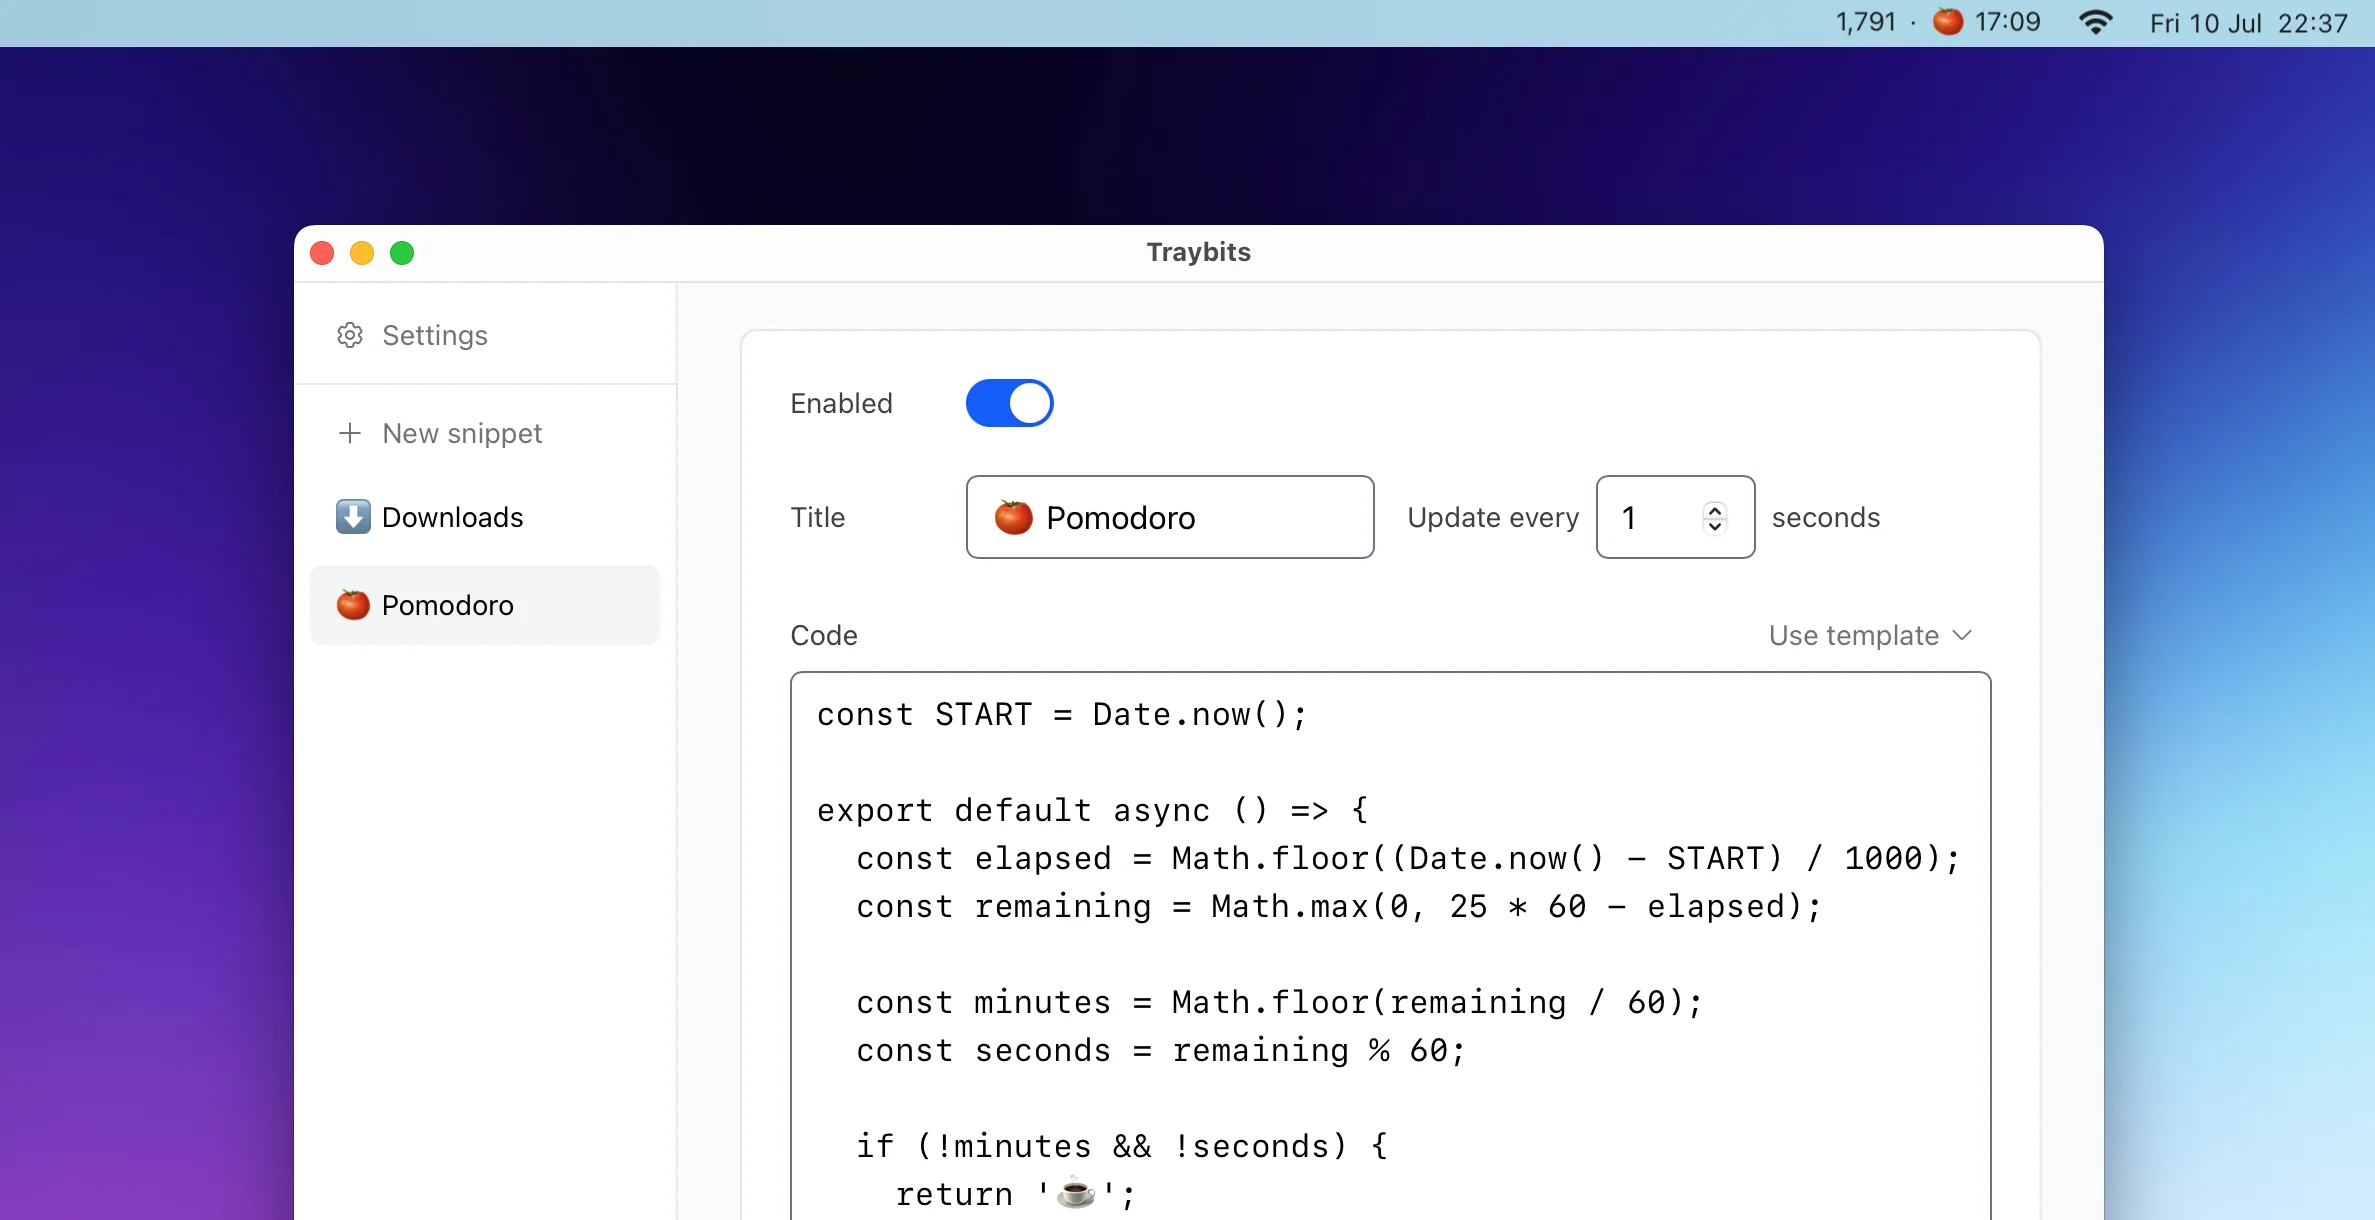
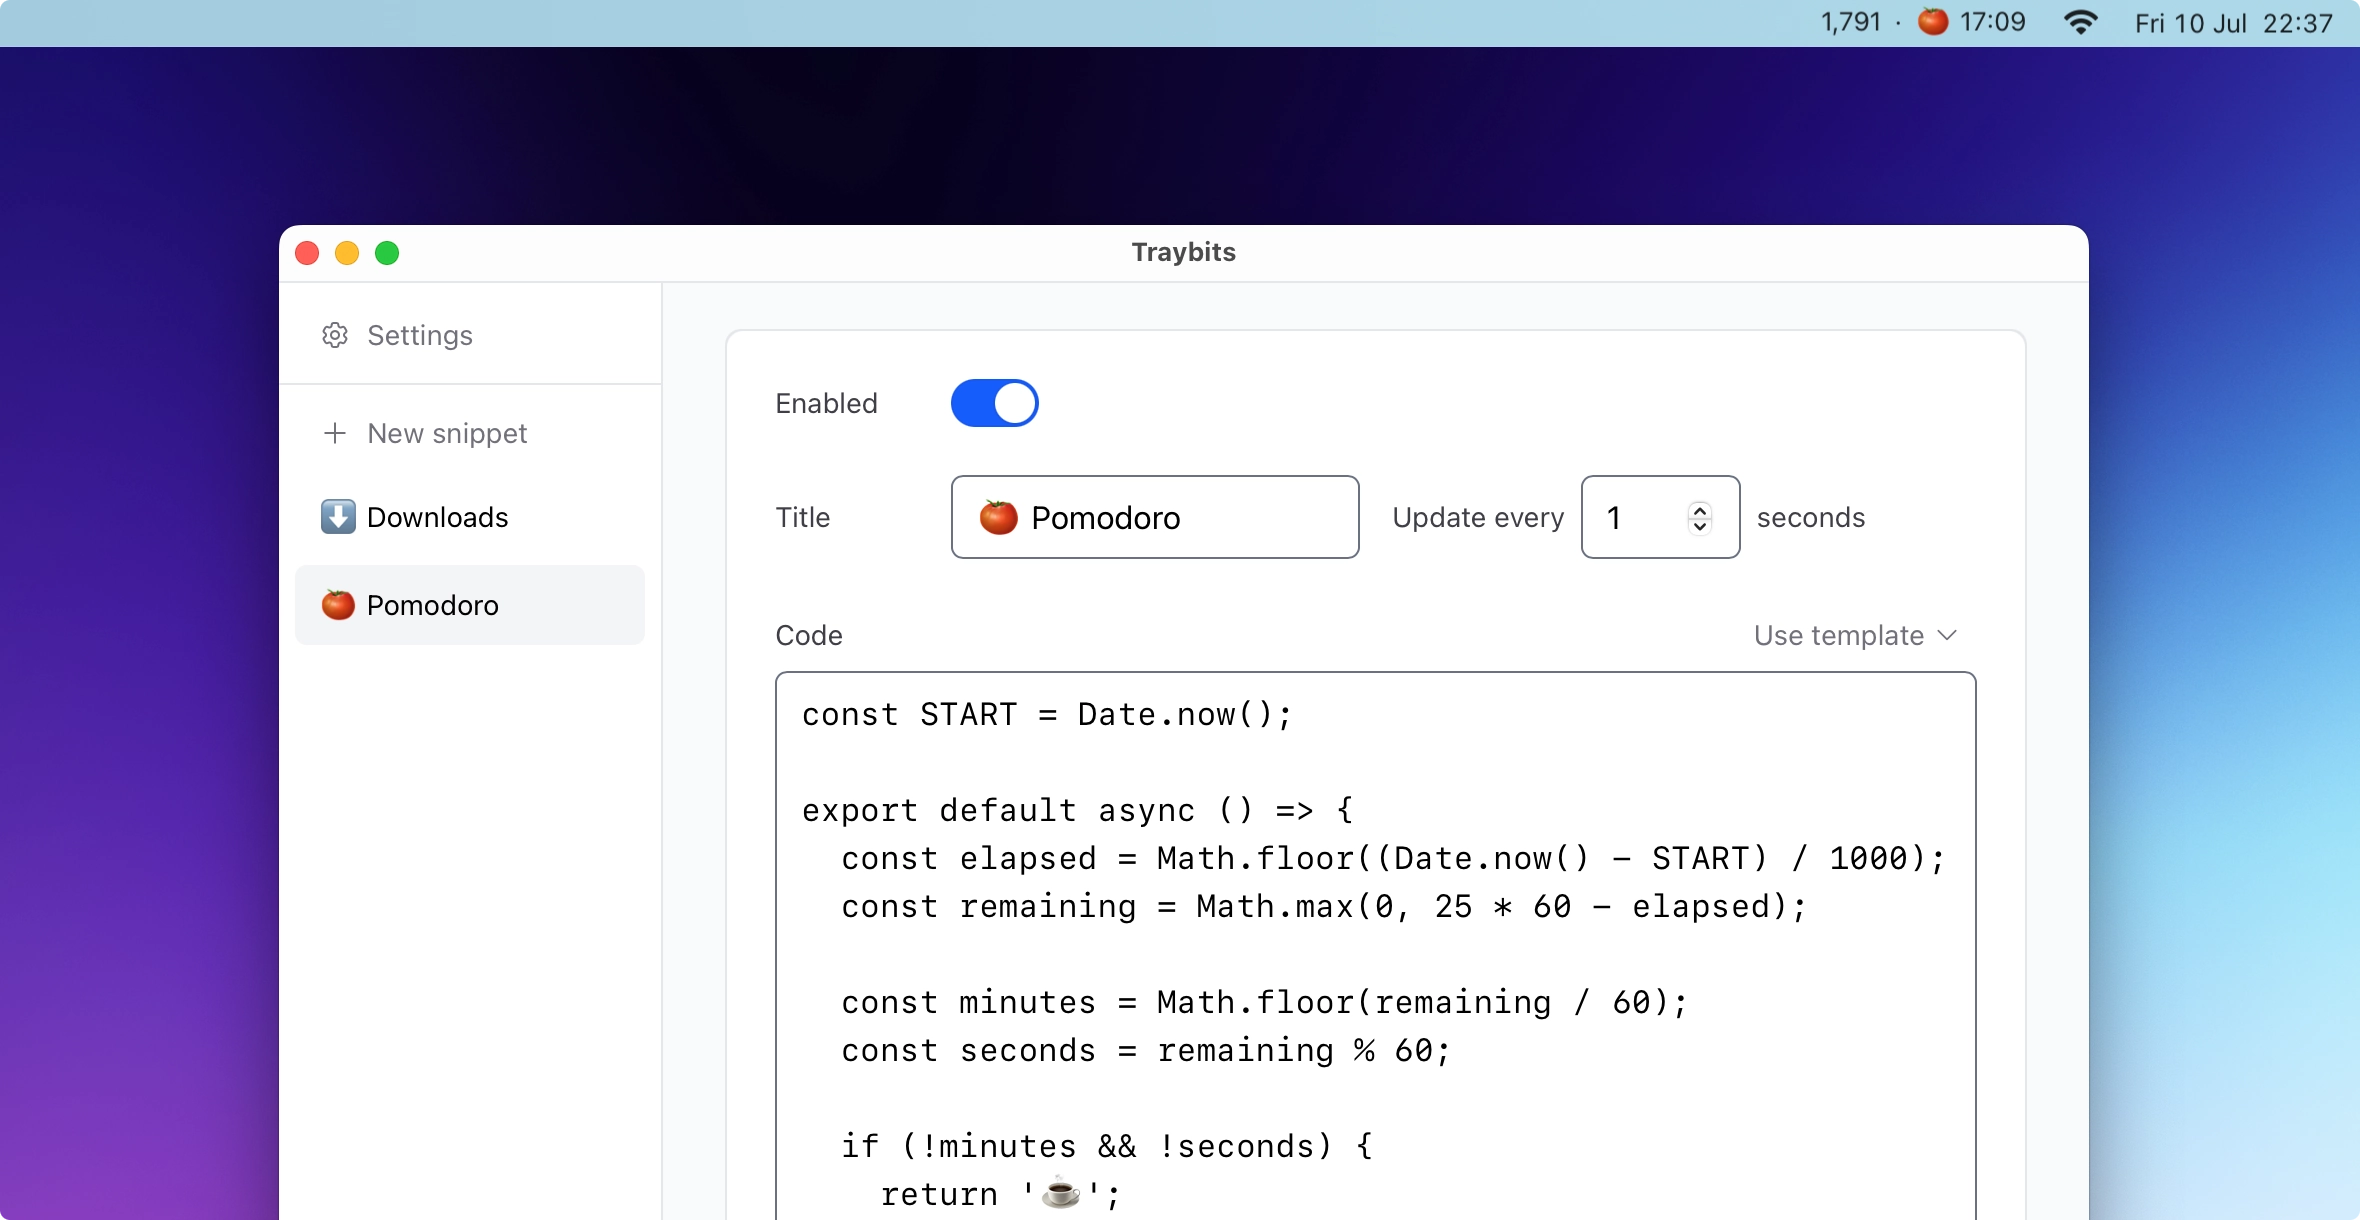
Update screenshot

diff --git a/README.md b/README.md
@@ -4,7 +4,7 @@ App to display various usefull information in the system tray.
 
 <picture>
     <!-- <source media="(prefers-color-scheme: dark)" srcset="./media/screenshot-dark.webp" width="873"> -->
-    <img alt="Screenshot of the Traybits app" src="./media/screenshot-light.webp" width="1188">
+    <img alt="Screenshot of the Traybits app" src="./media/screenshot-light.webp" width="1180">
 </picture>
 
 ## Installation
